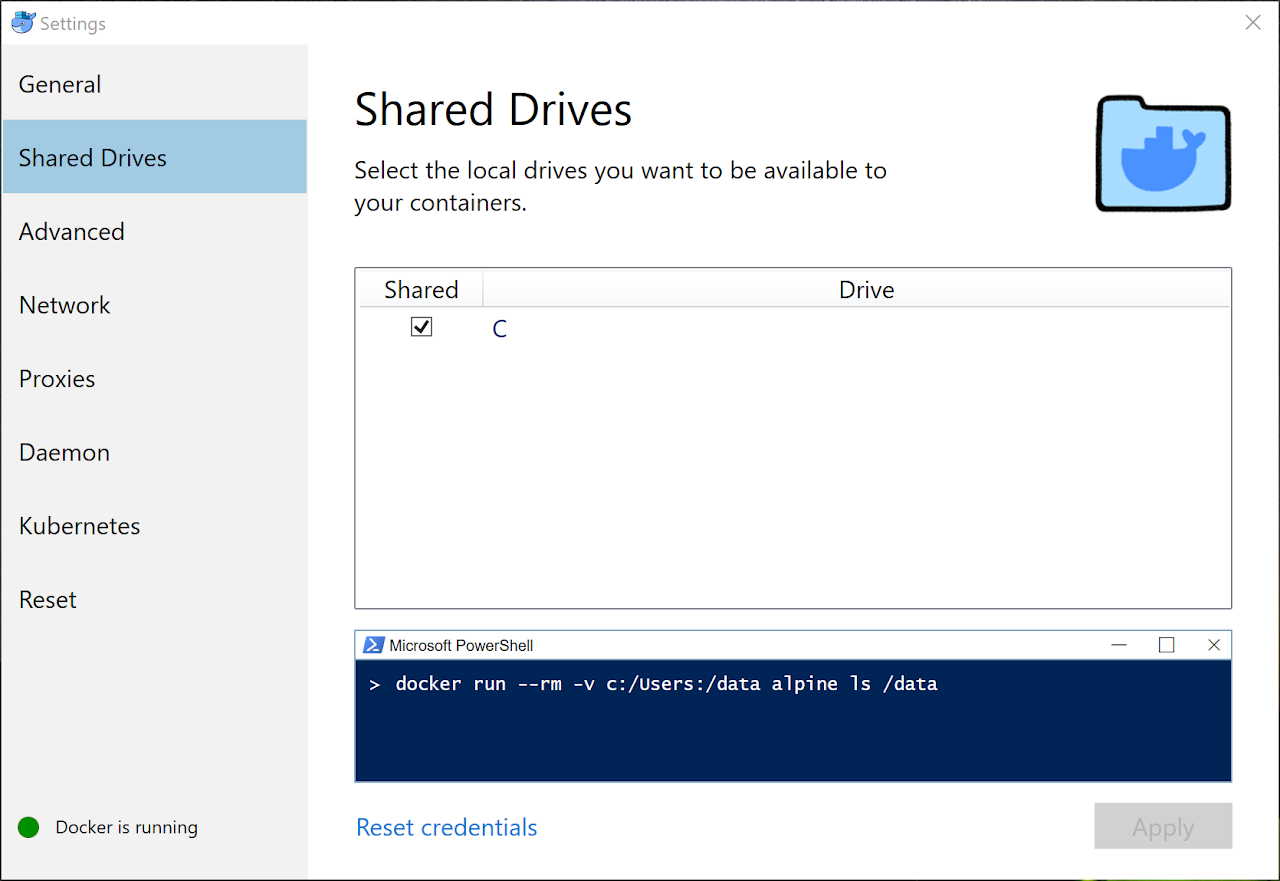
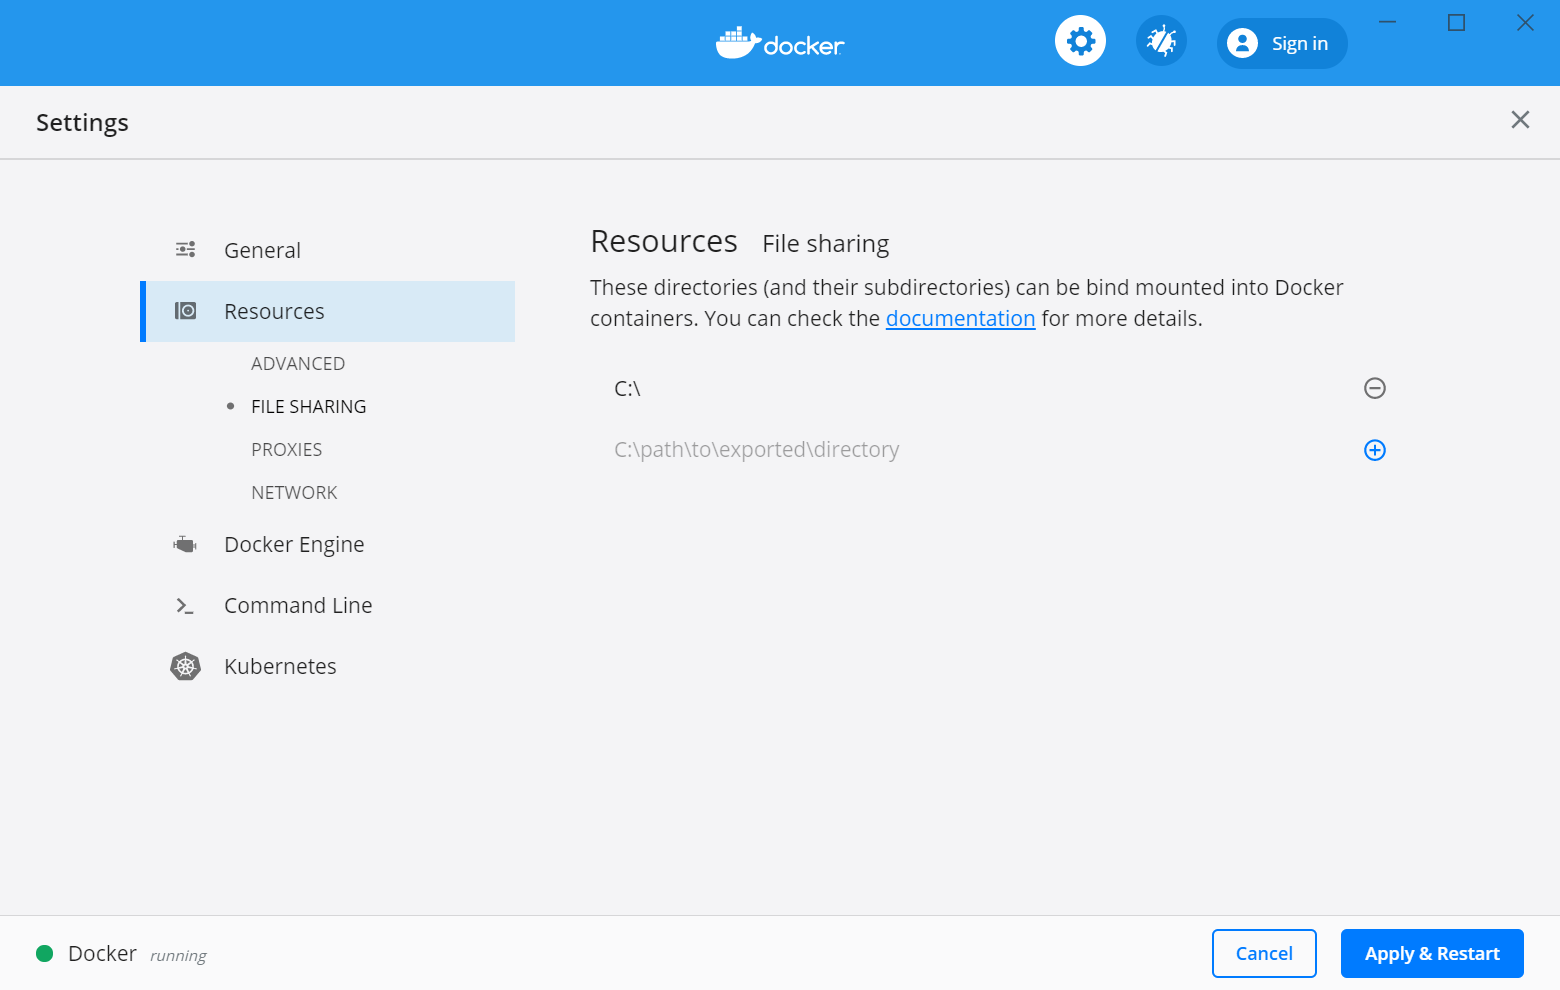
cleanup

diff --git a/install/rsm-msba-windows-1909.md b/install/rsm-msba-windows-1909.md
@@ -20,19 +20,11 @@ Please follow the instructions below to install the rsm-msba-spark computing env
 
 Windows users **must** use Microsoft Windows 10 Professional, Education, or Enterprise (64-bit). Students will likely be able to upgrade to Microsoft Windows 10 Education (64-bit) for free through their university. For Rady (UCSD) students, the steps in the upgrade process are shown in the following video: <a href="https://youtu.be/p0gcRbatO0w" target="blank">https://youtu.be/p0gcRbatO0w</a>.
 
-**Step 2**: Install Windows Subsystem for Linux (WSL2)
+**Step 2**: Install docker from the link below and make sure it is running. You will know it is running if you see the icon below in your system tray. If the containers shown in the image are moving up and down docker hasn't finished starting up yet.
 
-Although not strictly required, installing WSL2 is **highly** recommended and can have a big impact of performance. Follow the instructions on the Microsoft webpage linked below step-by-step to install WSL2 and Ubuntu 20.04.
-
-<a href="https://docs.microsoft.com/en-us/windows/wsl/install-win10" target="_blank">https://docs.microsoft.com/en-us/windows/wsl/install-win10</a>
-
-**Step 3**: Install docker from the link below and make sure it is running. You will know it is running if you see the icon below in your system tray. If the containers shown in the image are moving up and down docker hasn't finished starting up yet.
-
-During the install process use *only* the default settings. If prompted, make sure to choose "Linux containers" and *not* "Windows containers". You may also be prompted to enable virtualization ("Hyper-V"). If so, click OK and your computer should restart. Finally, you should be prompted to "Enable WSL 2 Windows Features". If so, make sure the appropriate box is checked.
+During the install process use *only* the default settings. If prompted, make sure to choose "Linux containers" and *not* "Windows containers". You may also be prompted to enable virtualization ("Hyper-V"). If so, click OK and your computer should restart.
 
 ![docker](figures/docker-icon.png)
-
-<img src="figures/wsl2-windows-docker-install.png" width="400px">
 
 <https://download.docker.com/win/stable/Docker%20for%20Windows%20Installer.exe>
 
@@ -50,24 +42,43 @@ Next click on _Resources > FILE SHARING_ and then click on the + sign to share t
 
 Optional: If you are interested, this linked video gives a brief intro to what Docker is: https://www.youtube.com/watch?v=YFl2mCHdv24
 
-**Step 4**: Install the Windows Terminal
+**Steps 3-4 using the Rady installer**: Download and run the installer linked below to complete steps 3 and 4 of the install process on Windows
 
-Visit the Windows Store to install <a href="https://www.microsoft.com/en-us/p/windows-terminal/9n0dx20hk701" target="_blank">Windows Terminal</a>
+https://rady.ucsd.edu/faculty/directory/vnijs/RSM-MSBA-Computing-Environment-Latest.exe
 
-**Step 5**: Install linux tools
+If you see a warning message like the image shown below when you run the installer click on "More info" and then on "Run anyway".
 
-Open a bash terminal **as administrator** and copy-and-paste the code below to add `rsync` functionality. Note: You may have to right-click to get a copy-and-paste menu for the terminal
+<img src="figures/win-protected.png" width="300px">
+
+<details>
+<summary>Complete steps 3 and 4 manually</summary>
+
+**Step 3**: Install git bash from the link below
+
+<a href="https://git-scm.com/download/win" target="_blank">https://git-scm.com/download/win</a>
+
+Keep the default settings until you are asked about "Configuring extra options". Set the options as shown in the screen shot below.
+
+<img src="figures/symlinks.png" width="500px">
+
+There is no need to "View Release Notes" on the last screen or "Launch Git Bash" just yet.
+
+**Step4**: Open a bash terminal **as administrator** and copy-and-paste the code below to add `rsync` functionality. Note: You may have to right-click to get a copy-and-paste menu for the terminal
+
+> Note: To open git bash as administrator, find the app in the Start Menu and select 'Run as administrator'.
 
 ```bash
-sudo apt install git rsync openssh-client
+curl http://www2.futureware.at/~nickoe/msys2-mirror/msys/x86_64/rsync-3.1.2-2-x86_64.pkg.tar.xz -o rsync.pkg.tar.xz;
+tar xvJf rsync.pkg.tar.xz -C /c/Program\ Files/Git/;
+rm -rf rsync.pkg.tar.xz;
 ```
 
 Next, copy-and-paste the code below to clone the launch scripts needed to start the docker container.
 
 ```bash
-git clone https://github.com/radiant-rstats/docker.git ~/git/docker;
-cp -p ~/git/docker/launch-rsm-msba-spark.sh /mnt/c/Users/$USER/Desktop;
-/mnt/c/Users/$USER/launch-rsm-msba-spark.sh;
+git clone https://github.com/radiant-rstats/docker.git C:/Users/$USERNAME/git/docker;
+cp -p C:/Users/$USERNAME/git/docker/launch-rsm-msba-spark.sh C:/Users/$USERNAME/Desktop;
+C:/Users/$USERNAME/Desktop/launch-rsm-msba-spark.sh;
 ```
 
 This step will clone and start up a script that will finalize the installation of the computing environment. The first time you run this script it will download the latest version of the computing environment which can take some time. Wait for the container to download and follow any prompts. Once the download is complete you should see a menu as in the screen shot below.
@@ -262,7 +273,6 @@ You should always stop the `rsm-msba-spark` docker container using `q` (and Ente
 ```bash
 rm -rf C:/Users/$USERNAME/.rstudio;
 rm -rf C:/Users/$USERNAME/.rsm-msba;
-rm -rf C:/Users/$USERNAME/.local/share/jupyter;
 docker system prune --all --volumes --force;
 docker pull vnijs/rsm-msba-spark;
 ```
@@ -280,6 +290,7 @@ Note that the launch script can also be started from the command line (i.e., a b
 
 <img src="figures/docker-help.png" width="500px"
 
+> Note: If you do not see the option to show help, please upgrade the launch script using 
 
 ## Trouble shooting
 

diff --git a/install/rsm-msba-macos.md b/install/rsm-msba-macos.md
@@ -7,6 +7,7 @@
 - [Installing R and Python packages locally](#installing-r-and-python-packages-locally)
 - [Committing changes to the computing environment](#committing-changes-to-the-computing-environment)
 - [Cleanup](#cleanup)
+- [Getting help](#getting-help)
 - [Trouble shooting](#trouble-shooting)
 
 <!-- markdownlint-disable MD033 MD034 -->
@@ -79,7 +80,7 @@ setup
 
 ## Updating the RSM-MSBA computing environment on macOS
 
-To update the container use the launch script and press 5 (+ enter). To update the launch script itself, press 6 (+ enter).
+To update the container use the launch script and press 6 (+ enter). To update the launch script itself, press 7 (+ enter).
 
 <img src="figures/rsm-msba-menu-macos.png" width="500px">
 
@@ -179,7 +180,8 @@ To install Python modules that will persist after restarting the docker containe
 
 After installing a module you will have to restart any running Python kernels to `import` the module in your code.
 
-To remove locally installed R packages press 7 (and Enter) in the launch menu and follow the prompts. To remove locally installed Python modules press 8 (and Enter) in the launch menu.
+To remove locally installed R packages press 8 (and Enter) in the launch menu and follow the prompts. To remove locally installed Python modules press 9 (and Enter) in the launch menu.
+
 
 ## Committing changes to the computing environment
 
@@ -224,7 +226,7 @@ For additional resources on developing docker images see the links below:
 
 ## Cleanup
 
-To remove any prior Rstudio sessions, and locally installed R-packages, press 7 (and Enter) in the launch menu. To remove locally installed Python modules press 8 (and Enter) in the launch menu.
+To remove any prior Rstudio sessions, and locally installed R-packages, press 8 (and Enter) in the launch menu. To remove locally installed Python modules press 9 (and Enter) in the launch menu.
 
 > Note: It is also possible initiate the process of removing locally installed packages and settings from within the container. Open a terminal in Jupyter Lab or Rstudio and type `clean`. Then follow the prompts to indicate what needs to be removed.
 
@@ -237,6 +239,19 @@ rm -rf ~/.local/share/jupyter
 docker system prune --all --volumes --force;
 docker pull vnijs/rsm-msba-spark;
 ```
+
+## Getting help
+
+Please bookmark this page in your browser for easy access in the future. You can also access the documentation page for your OS by typing h (and Enter) in the launch menu. 
+
+Note that the launch script can also be started from the command line (i.e., a bash terminal) and has several important arguments:
+
+* `launch -t 1.7.2` would ensure a specific version of the docker container is used. Suppose you used version 1.7.2 for a project. Using `-t 1.7.2` will ensure your code still runs without modification years after you last touched it
+* `launch -d ~/project_1` will treat the `project_1` directory on the host system (i.e., your macOS computer) as the home directory in the docker container. This is an additional level of isolation that can help ensure your work is reproducible in the future. This can be particularly useful in combination with the `-t` option as this will make a copy of the launch script with the appropriate `tag` or `version` already set. Simply double-click the script in the `project_1` directory and you will be back in the development environment you used when you completed the project
+* `launch -s` show additional output in the launch terminal that can be useful to debug any problems
+* `launch -h` print the help shown in the screenshot below
+
+<img src="figures/docker-help.png" width="500px">
 
 ## Trouble shooting
 

diff --git a/install/rsm-msba-chromeos.md b/install/rsm-msba-chromeos.md
@@ -7,6 +7,7 @@
 - [Installing R and Python packages locally](#installing-r-and-python-packages-locally)
 - [Committing changes to the computing environment](#committing-changes-to-the-computing-environment)
 - [Cleanup](#cleanup)
+- [Getting help](#getting-help)
 - [Trouble shooting](#trouble-shooting)
 
 <!-- markdownlint-disable MD033 MD034 -->
@@ -235,6 +236,20 @@ rm -rf ~/.local/share/jupyter
 docker system prune --all --volumes --force;
 docker pull vnijs/rsm-msba-spark;
 ```
+
+## Getting help
+
+Please bookmark this page in your browser for easy access in the future. You can also access the documentation page for your OS by typing h (and Enter) in the launch menu. 
+
+Note that the launch script can also be started from the command line (i.e., a bash terminal) and has several important arguments:
+
+* `launch -t 1.7.2` would ensure a specific version of the docker container is used. Suppose you used version 1.7.2 for a project. Using `-t 1.7.2` will ensure your code still runs without modification years after you last touched it
+* `launch -d ~/project_1` will treat the `project_1` directory on the host system (i.e., your macOS computer) as the home directory in the docker container. This is an additional level of isolation that can help ensure your work is reproducible in the future. This can be particularly useful in combination with the `-t` option as this will make a copy of the launch script with the appropriate `tag` or `version` already set. Simply double-click the script in the `project_1` directory and you will be back in the development environment you used when you completed the project
+* `launch -s` show additional output in the launch terminal that can be useful to debug any problems
+* `launch -h` print the help shown in the screenshot below
+
+<img src="figures/docker-help.png" width="500px"
+
 
 ## Trouble shooting
 

diff --git a/install/rsm-msba-linux.md b/install/rsm-msba-linux.md
@@ -7,6 +7,7 @@
 - [Installing R and Python packages locally](#installing-r-and-python-packages-locally)
 - [Committing changes to the computing environment](#committing-changes-to-the-computing-environment)
 - [Cleanup](#cleanup)
+- [Getting help](#getting-help)
 - [Trouble shooting](#trouble-shooting)
 
 <!-- markdownlint-disable MD033 MD034 -->
@@ -240,6 +241,19 @@ rm -rf ~/.local/share/jupyter
 docker system prune --all --volumes --force;
 docker pull vnijs/rsm-msba-spark;
 ```
+
+## Getting help
+
+Please bookmark this page in your browser for easy access in the future. You can also access the documentation page for your OS by typing h (and Enter) in the launch menu. 
+
+Note that the launch script can also be started from the command line (i.e., a bash terminal) and has several important arguments:
+
+* `launch -t 1.7.2` would ensure a specific version of the docker container is used. Suppose you used version 1.7.2 for a project. Using `-t 1.7.2` will ensure your code still runs without modification years after you last touched it
+* `launch -d ~/project_1` will treat the `project_1` directory on the host system (i.e., your macOS computer) as the home directory in the docker container. This is an additional level of isolation that can help ensure your work is reproducible in the future. This can be particularly useful in combination with the `-t` option as this will make a copy of the launch script with the appropriate `tag` or `version` already set. Simply double-click the script in the `project_1` directory and you will be back in the development environment you used when you completed the project
+* `launch -s` show additional output in the launch terminal that can be useful to debug any problems
+* `launch -h` print the help shown in the screenshot below
+
+<img src="figures/docker-help.png" width="500px"
 
 ## Trouble shooting
 
